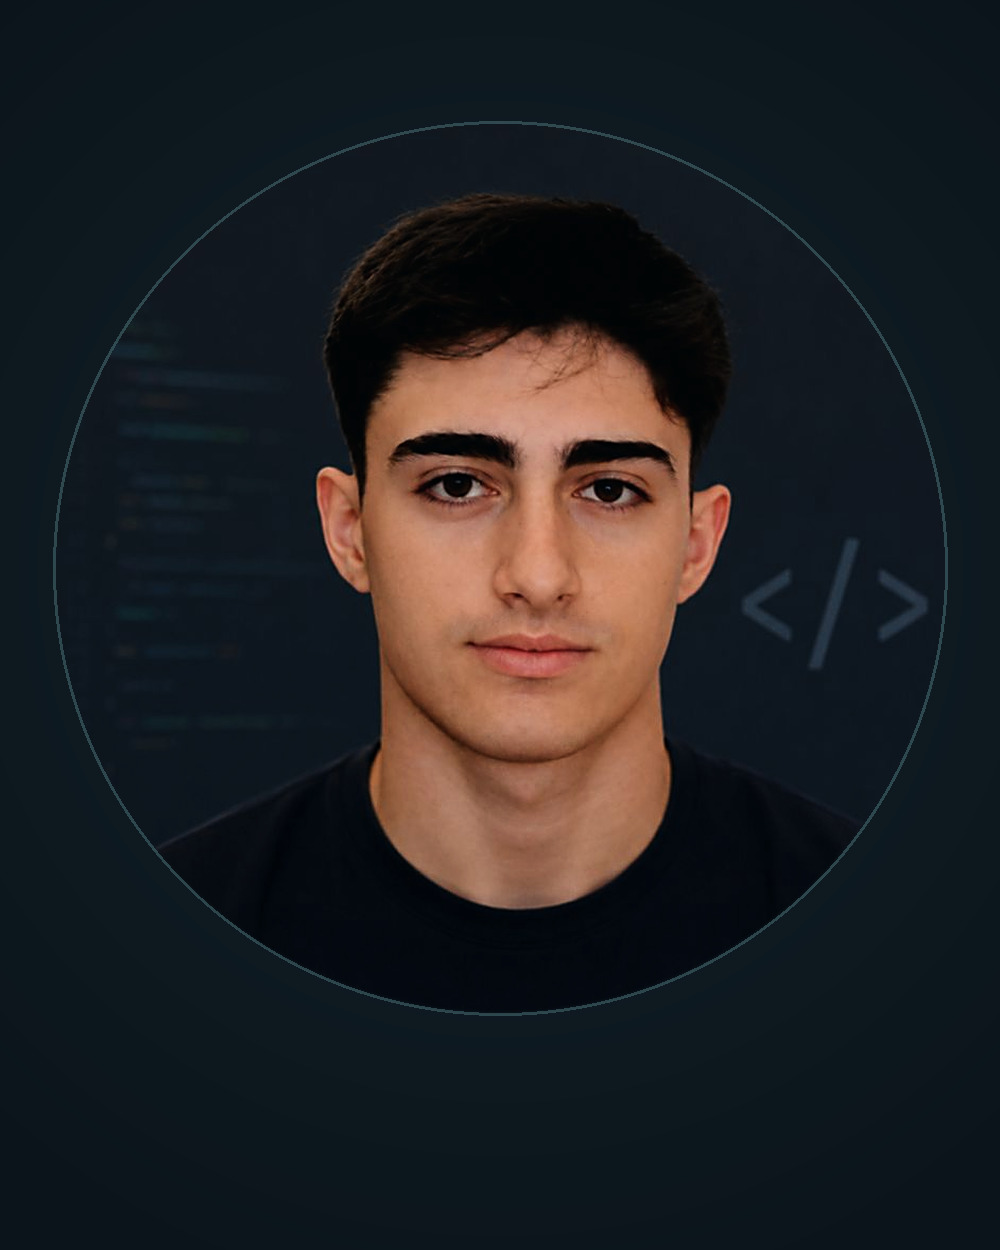
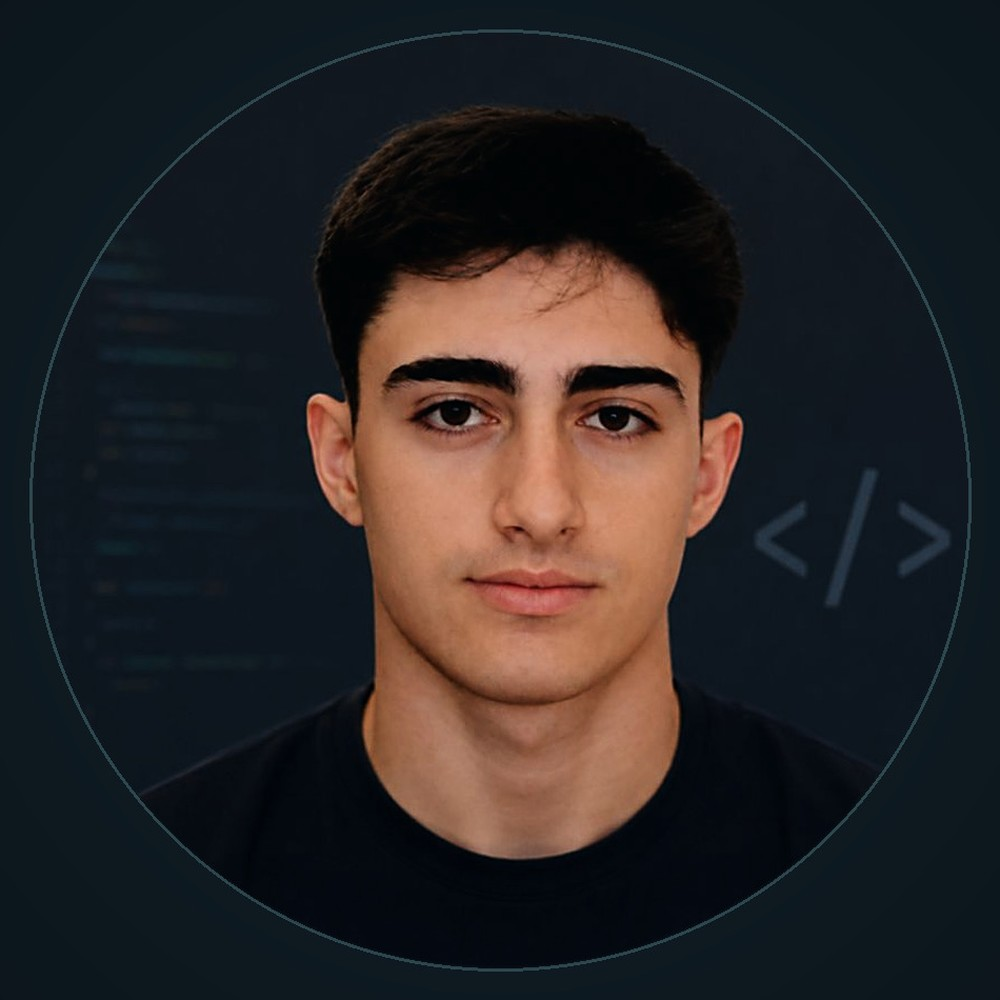
fix: encuadrar el retrato para que llene el marco
La foto era 1000x1250 y el marco 4:5, asi que no se recortaba nada y se
mostraba tal cual: el circulo decorativo ocupaba solo la parte de arriba y
quedaba una banda muerta debajo, con la cara pequeña y el bloque descuadrado
respecto al texto.

Localizado el circulo por diferencia de luminancia (x 53-947, y 121-1015,
centro 500,568 y radio 447), recorta un cuadrado centrado en el con 28 px de
aire y lo reescala a 1000x1000. El marco pasa a aspect-ratio 1, de modo que el
circulo llena la caja de lado a lado.

En movil el marco pasa a min(320px, 72vw) y se centra, en vez de quedarse fijo
en 300 px: asi acompaña al ancho de la pantalla en lugar de ignorarlo.

diff --git a/index.html b/index.html
@@ -233,7 +233,7 @@ a:hover{color:var(--accent-hover)}
   <div class="wrap about-wrap">
     <div class="rev">
       <div class="about-photo-box part" id="about-photo">
-        <img src="assets/hugo-retrato.jpg" width="1000" height="1250" alt="Retrato de Hugo Galiana Real" loading="lazy" decoding="async">
+        <img src="assets/hugo-retrato.jpg?v=2" width="1000" height="1000" alt="Retrato de Hugo Galiana Real" loading="lazy" decoding="async">
       </div>
     </div>
     <div class="rev">
@@ -560,14 +560,14 @@ a:hover{color:var(--accent-hover)}
 .faq p{padding:0 22px 20px;color:var(--text-secondary);font-size:15.5px;max-width:70ch}
 /* quien soy */
 .about-wrap{display:grid;grid-template-columns:.8fr 1.2fr;gap:clamp(28px,5vw,60px);align-items:center}
-.about-photo-box{position:relative;border-radius:20px;overflow:hidden;aspect-ratio:4/5;max-width:380px;box-shadow:0 26px 74px rgba(0,0,0,.45)}
+.about-photo-box{position:relative;border-radius:20px;overflow:hidden;aspect-ratio:1;max-width:380px;box-shadow:0 26px 74px rgba(0,0,0,.45)}
 .about-photo-box::after{content:"";position:absolute;inset:0;pointer-events:none;border-radius:20px;box-shadow:inset 0 0 0 1px var(--line)}
 .about-photo-box img{width:100%;height:100%;object-fit:cover;display:block}
 .about-ph{position:absolute;inset:0;display:flex;flex-direction:column;align-items:center;justify-content:center;gap:14px;color:var(--text-secondary)}
 .about-ph svg{width:52px;height:52px;color:var(--accent)}
 .about p+p{margin-top:14px}
 .about .rev + .rev h2{margin-top:14px}
-@media (max-width:860px){.about-wrap{grid-template-columns:1fr}.about-photo-box{max-width:300px}}
+@media (max-width:860px){.about-wrap{grid-template-columns:1fr}.about-photo-box{max-width:min(320px,72vw);margin-inline:auto}}
 /* contacto */
 .contact{padding-bottom:120px;position:relative;isolation:isolate;overflow:hidden}
 .contact::before{content:"";position:absolute;inset:0;z-index:-1;background:url('assets/hero-ending.jpg') center/cover no-repeat;opacity:.15;-webkit-mask-image:linear-gradient(to bottom,transparent,black 24%,black 76%,transparent);mask-image:linear-gradient(to bottom,transparent,black 24%,black 76%,transparent)}
